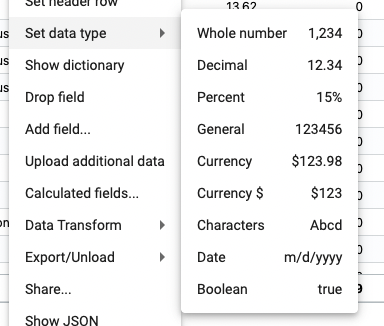
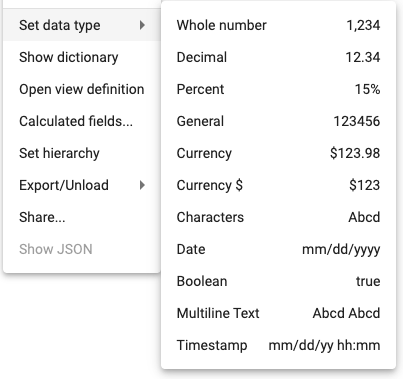
doc - adds missing types

diff --git a/docs/how_to/data.md b/docs/how_to/data.md
@@ -18,9 +18,10 @@ The data types include:
 * **Characters** - A string (e.g. Hourly)
 * **Date** - 06/01/2022
 * **Boolean** - A binary value (e.g. true or false)
+* **Multiline** - Long blocks of text requiring wrapping within the field.
+* **Timestamp** - Captures the date and time in 24 hour format (e.g. 2/28/22 03:00)
 
-
-<img src="../assets/datatype.png"  style="width:400px" class="border"></img> 
+<img src="../assets/datatype.png"  style="width:403px" class="border"></img> 
 
 ### Date Formatting
 To modify the default date formatting, change the `Date Format` value in `Show Dictionary` for the date field.  The string may contain replacements for adding the day of week to the formatted date:
